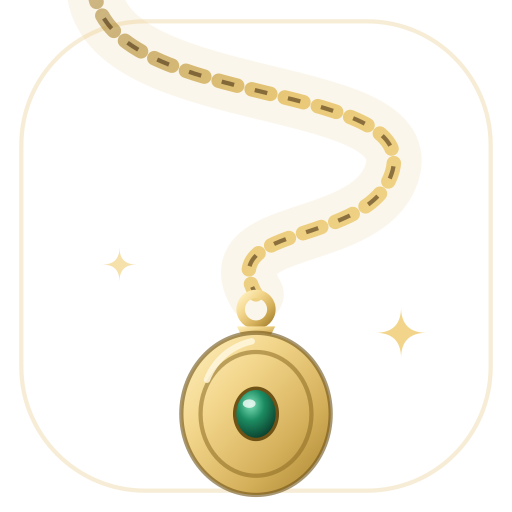
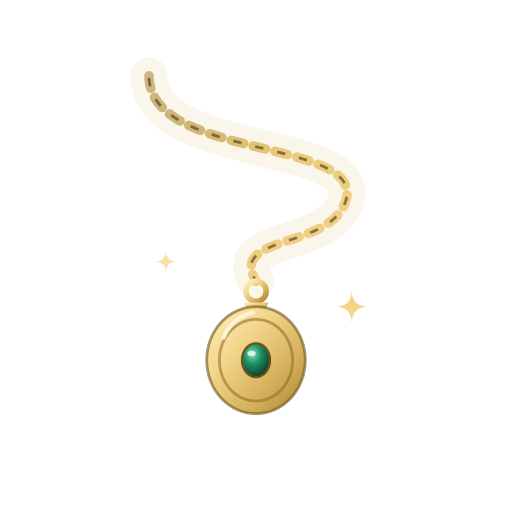
Jewel Box: the loose ends
Settings puts Sign out and Subscribe (or Manage) side by side, as B-32.
The Android adaptive icon's art shrinks into the 66% the circle keeps.
Shared cards and the embed set Gloock and Newsreader, not Fraunces/Figtree.
A Button's leading glyph matches the trailing one, so it sits level.
fresh-splash.sh clears the launch snapshot iOS keeps through a rebuild.
The dark-mode heart bug leaves TODO: walk-and-unlock passes in dark on a
fresh native build.

diff --git a/mobile/src/Settings.tsx b/mobile/src/Settings.tsx
@@ -16,7 +16,7 @@ import SignIn from './SignIn.tsx';
 import { locketOf } from './lockets.ts';
 import type { Permission } from './types.ts';
 import Button from './Button.tsx';
-import { button, buttonText, color, dim, font, label, screenTitle } from './theme.ts';
+import { color, dim, font, label, screenTitle } from './theme.ts';
 
 type Props = {
   visible: boolean;
@@ -63,28 +63,34 @@ export default function Settings({
           <CloseButton onPress={onClose} label="Close settings" />
         </View>
         <Section title="Account">
-          <SignIn device={device} profile={profile} onProfile={onProfile} />
-          {profile?.subscribed ? (
-            <>
-              <Text style={styles.note}>
-                {profile.subscribed_until
-                  ? `Subscribed until ${new Date(`${profile.subscribed_until}Z`).toLocaleDateString()}.`
-                  : 'Subscribed.'}{' '}
-                Plan as many walks a day as you like.
-              </Text>
-              <Pressable
-                style={dim(styles.action)}
-                onPress={() => manage().catch(() => {})}
-                accessibilityRole="button"
-              >
-                <Text style={styles.actionText}>Manage subscription</Text>
-              </Pressable>
-            </>
-          ) : (
-            profile?.user_id && (
-              <Button kind="foil" label="Subscribe" onPress={onSubscribe} place={styles.action} />
-            )
+          {profile?.subscribed && (
+            <Text style={styles.note}>
+              {profile.subscribed_until
+                ? `Subscribed until ${new Date(`${profile.subscribed_until}Z`).toLocaleDateString()}.`
+                : 'Subscribed.'}{' '}
+              Plan as many walks a day as you like.
+            </Text>
           )}
+          <SignIn
+            device={device}
+            profile={profile}
+            onProfile={onProfile}
+            beside={
+              profile?.subscribed ? (
+                <Button
+                  kind="quiet"
+                  label="Manage"
+                  accessibilityLabel="Manage subscription"
+                  onPress={() => manage().catch(() => {})}
+                  place={styles.half}
+                />
+              ) : (
+                profile?.user_id && (
+                  <Button kind="foil" label="Subscribe" onPress={onSubscribe} place={styles.half} />
+                )
+              )
+            }
+          />
         </Section>
 
         <Section title="How unlocking works">
@@ -209,9 +215,8 @@ const styles = StyleSheet.create({
   row: { flexDirection: 'row', alignItems: 'flex-start', gap: 12 },
   rowText: { flex: 1, ...font.prose, fontSize: 17, lineHeight: 27, color: color.ink },
   note: { ...font.prose, fontSize: 15, lineHeight: 24, color: color.inkFaint },
-  action: { ...button.quiet, alignSelf: 'flex-start', marginTop: 6 },
+  half: { flex: 1 },
   textAction: { alignSelf: 'flex-start' },
-  actionText: { ...buttonText, color: color.ink },
   link: { alignSelf: 'flex-start' },
   linkText: {
     ...font.uiMedium,

diff --git a/mobile/src/SignIn.tsx b/mobile/src/SignIn.tsx
@@ -19,7 +19,7 @@
  * that a release build cannot take: see `Skip` below.
  */
 
-import { useEffect, useMemo, useState } from 'react';
+import { useEffect, useMemo, useState, type ReactNode } from 'react';
 import {
   ActivityIndicator,
   Platform,
@@ -37,6 +37,7 @@ import * as WebBrowser from 'expo-web-browser';
 import { useSafeAreaInsets } from 'react-native-safe-area-context';
 
 import { deleteAccount, fetchProfile, signIn, signOut, type Profile } from './api.ts';
+import Button from './Button.tsx';
 import { LogoTile } from './StartupLogo.tsx';
 import { button, buttonText, color, dim, font, label, screenTitle } from './theme.ts';
 
@@ -290,12 +291,14 @@ type Props = {
   device: string | null;
   profile: Profile | null;
   onProfile: (next: Profile) => void;
+  /** Shares Sign out's row: Settings puts Subscribe there. */
+  beside?: ReactNode;
 };
 
 /** The journal's Account section. Only ever seen signed in (or skipped past in
  *  a dev build): which sign-ins are attached, the other one, and sign out -
  *  which lands back on SignInScreen. */
-export default function SignIn({ device, profile, onProfile }: Props) {
+export default function SignIn({ device, profile, onProfile, beside }: Props) {
   const [busy, setBusy] = useState(false);
   const [error, setError] = useState<string | null>(null);
   const appleAvailable = useAppleAvailable();
@@ -347,9 +350,10 @@ export default function SignIn({ device, profile, onProfile }: Props) {
         !providers.includes('apple') && (
           <LinkApple device={device} onProfile={onProfile} onError={setError} onBusy={setBusy} />
         )}
-      <Pressable style={dim(styles.action)} onPress={leave} accessibilityRole="button">
-        <Text style={styles.actionText}>Sign out</Text>
-      </Pressable>
+      <View style={styles.row}>
+        <Button kind="quiet" label="Sign out" onPress={leave} place={styles.half} />
+        {beside}
+      </View>
       {confirmingDelete && (
         <Text style={styles.note}>
           Your memories, photos, notes and sign-ins are deleted for good. A subscription is
@@ -385,6 +389,8 @@ const styles = StyleSheet.create({
     maxWidth: 280,
   },
   actions: { gap: 12, alignItems: 'stretch' },
+  row: { flexDirection: 'row', gap: 12 },
+  half: { flex: 1 },
   google: { ...button.quiet, height: 52, paddingVertical: 0 },
   googleText: { ...buttonText, color: color.ink },
   skip: { alignSelf: 'center', paddingVertical: 10, paddingHorizontal: 16 },
@@ -393,8 +399,6 @@ const styles = StyleSheet.create({
   note: { ...font.prose, fontSize: 15, lineHeight: 24, color: color.inkFaint },
   // Apple's button draws itself; it only takes a frame.
   apple: { height: 52, alignSelf: 'stretch' },
-  action: { ...button.quiet, alignSelf: 'flex-start' },
-  actionText: { ...buttonText, color: color.ink },
   delete: { alignSelf: 'flex-start', paddingVertical: 4 },
   deleteText: { ...buttonText, color: color.danger },
   error: { ...font.ui, fontSize: 13, color: color.gold, textAlign: 'center' },

diff --git a/mobile/src/Button.tsx b/mobile/src/Button.tsx
@@ -69,7 +69,7 @@ export default function Button({
         <ActivityIndicator color={tint} />
       ) : (
         <>
-          {glyph && <Glyph name={glyph} size={17} weight="semibold" color={tint} />}
+          {glyph && <Glyph name={glyph} size={15} weight="bold" color={tint} />}
           {label !== '' && (
             <Text style={[styles.label, { color: tint }]} numberOfLines={1}>
               {label}

diff --git a/api/card.py b/api/card.py
@@ -127,8 +127,7 @@ def source_href(row) -> str | None:
 # WebView and a link preview with no asset pipeline behind it.
 FONT_HREF = (
     "https://fonts.googleapis.com/css2?"
-    "family=Figtree:wght@400;500;600"
-    "&family=Fraunces:opsz,wght,SOFT,WONK@9..144,400,100,0;9..144,700,100,1&display=swap"
+    "family=Gloock&family=Newsreader:opsz,wght@6..72,400&display=swap"
 )
 
 # The palette is mobile/src/theme.ts, copied by hand because there are eleven
@@ -140,12 +139,14 @@ CARD_CSS = """
   :root{--bg:#14101a;--fg:#f3ece0;--muted:#9b90a3;--rule:#362c3f;--accent:#e3be6b}
 }
 *{box-sizing:border-box}
-/* Soft Fraunces and Figtree, with stacks that hold on their own: a link
+/* The app's type (docs/10, "Jewel Box"): Gloock for the title, Newsreader
+   for the story, the system's rounded face for the small print. Stacks that
+   hold on their own: a link
    preview bot fetches no fonts, and a card that collapses to Times is worse
    than one that was never restyled. `muted` is `faded`, not `inkFaint` - this
    sets 12px in it and inkFaint is 3.4:1 on paper. */
 body{margin:0;background:var(--bg);color:var(--fg);
-  font:400 16px/1.5 Fraunces,Georgia,"Times New Roman",serif;
+  font:400 16px/1.5 Newsreader,Georgia,"Times New Roman",serif;
   -webkit-font-smoothing:antialiased}
 /* The card hugs its content and never stretches: this same markup is an iframe
    in the embed widget, where a card stretched to 100vh is a credit stranded at
@@ -161,8 +162,9 @@ body{min-height:100svh;display:flex;flex-direction:column;
 .card{max-width:34rem;width:100%;margin-inline:auto;padding:28px 24px;display:flex;
   flex-direction:column;gap:14px}
 /* clamp() so the place name survives being scaled down to a thumbnail */
-.place{font-size:clamp(22px,5.5vw,30px);font-weight:700;line-height:1.2;margin:0}
-.when{font-family:Figtree,system-ui,-apple-system,"Segoe UI",sans-serif;
+.place{font-family:Gloock,Georgia,"Times New Roman",serif;
+  font-size:clamp(22px,5.5vw,30px);font-weight:400;line-height:1.2;margin:0}
+.when{font-family:ui-rounded,system-ui,-apple-system,"Segoe UI",sans-serif;
   font-size:12px;color:var(--muted);margin:0}
 /* 19/31, the same size the app's sheet gives it, because it is the same
    sentence and it is the reason anybody opened this. */
@@ -174,7 +176,7 @@ body{min-height:100svh;display:flex;flex-direction:column;
 /* Under the place name, as a byline: the first thing seen with the story,
    which is where the AI Act wants the label (docs/09 part 10). */
 .credit{margin:0;
-  font-family:Figtree,system-ui,-apple-system,"Segoe UI",sans-serif;
+  font-family:ui-rounded,system-ui,-apple-system,"Segoe UI",sans-serif;
   font-size:12px;line-height:19px;color:var(--muted);display:flex;
   flex-wrap:wrap;gap:6px}
 .credit a{color:var(--accent)}
@@ -182,7 +184,7 @@ body{min-height:100svh;display:flex;flex-direction:column;
    fixed height so a portrait phone shot is not cropped to a letterbox. */
 .photo{width:100%;border-radius:14px;display:block;max-height:60vh;object-fit:cover}
 .layer{display:inline-block;
-  font-family:Figtree,system-ui,-apple-system,"Segoe UI",sans-serif;
+  font-family:ui-rounded,system-ui,-apple-system,"Segoe UI",sans-serif;
   font-size:13px;font-weight:600;color:var(--muted)}
 @media (max-width:360px){.card{padding:18px 16px}.summary{font-size:17px;line-height:28px}}
 """

diff --git a/api/embed.py b/api/embed.py
@@ -49,7 +49,7 @@ EMBED_HTML = """<!doctype html>
 <title>Memory Lane</title>
 <link rel="stylesheet" href="https://cdnjs.cloudflare.com/ajax/libs/leaflet/1.9.4/leaflet.min.css">
 <script src="https://cdnjs.cloudflare.com/ajax/libs/leaflet/1.9.4/leaflet.min.js"></script>
-<link rel="stylesheet" href="https://fonts.googleapis.com/css2?family=Figtree:wght@400;500&family=Fraunces:opsz,wght,SOFT,WONK@9..144,400,100,0&display=swap">
+<link rel="stylesheet" href="https://fonts.googleapis.com/css2?family=Newsreader:opsz,wght@6..72,400&display=swap">
 <style>
   :root {{ color-scheme: light dark; }}
   /* Typography only. `Canvas` and `color-scheme` stay: this widget lives in
@@ -57,7 +57,7 @@ EMBED_HTML = """<!doctype html>
      the card inside the panel carries the full palette. */
   html, body {{
     margin: 0; height: 100%;
-    font-family: Figtree, system-ui, -apple-system, "Segoe UI", sans-serif;
+    font-family: ui-rounded, system-ui, -apple-system, "Segoe UI", sans-serif;
   }}
   #map {{ position: absolute; inset: 0; }}
   /* z-index 600 is deliberate and is the attribution rule, not a stacking
@@ -90,7 +90,7 @@ EMBED_HTML = """<!doctype html>
   #empty[data-show] {{ display: grid; }}
   #empty p {{
     background: Canvas; padding: .6rem 1rem; border-radius: 999px; margin: 0;
-    font-family: Fraunces, Georgia, "Times New Roman", serif; font-size: 1rem;
+    font-family: Newsreader, Georgia, "Times New Roman", serif; font-size: 1rem;
   }}
 </style>
 </head><body>

diff --git a/TODO.md b/TODO.md
@@ -24,13 +24,6 @@ What slowed a session down or nearly shipped something wrong, and would again.
 The rules for adding to it are in AGENTS.md, "Then log the friction". Newest first;
 delete an entry when its fix lands.
 
-- **A new native splash shows the old one until its snapshot is deleted.**
-  2026-10-07: after the Jewel Box icon, prebuild and xcodebuild put the new
-  splash in the bundle, but the simulator kept launching on the ember tile
-  through a reinstall and a reboot; it took an `assetutil` check of the bundle
-  to find the cache. Also `npx expo run:ios` dies on signing with a paired
-  iPhone, as `e2e/run.sh` notes. Fix: a `mobile/scripts/fresh-splash.sh` that
-  deletes the app container's `Library/SplashBoard` (in `UI.md`'s recipe).
 - **A reply cut at `max_tokens=2000` is paid for and thrown away.**
   2026-10-07: the Københavnerglimt batch logged it on several calls, then a
   last pass of three cut calls stored nothing and stopped the run, leaving
@@ -448,13 +441,6 @@ rule for anything game-like or crafted: quiet by default, loud only for real
 progress; refine what exists rather than add.
 
 ### The walk on the map
-
-- [ ] **The heart does not press after a dark-mode unlock** (2026-10-07).
-      `./e2e/run.sh walk` fails at F26 with the simulator in dark: a tap on
-      Heart reaches nothing, and the hierarchy shows an empty full-sheet layer
-      at the card's frame over it. Suspect `IrisGrow`'s dark path
-      (LocketUnlock.tsx, Jewel Box). A tap after relaunch works. Light mode
-      untested since the change.
 
 - [ ] **A walk's stops told apart.** (checked 2026-10-04) The accent question
       is settled (gold, emerald `seal`, `faded`; docs/10, *Lockets*). Left: a

diff --git a/docs/repository-map.md b/docs/repository-map.md
@@ -184,6 +184,7 @@ The endpoint list is [06-api.md](06-api.md).
 | `mobile/src/cluster.ts` | Group memories that share a map point (unit tested) |
 | `mobile/src/region.ts` | Metres, paths and framing a walk (unit tested) |
 | `mobile/src/useMapCamera.ts` | Owns the map ref and every camera move |
+| `mobile/scripts/fresh-splash.sh` | Dev: clear the simulator's saved launch screen, so a new native splash shows |
 | `mobile/scripts/reset-unlocks.sh` | Dev: lock everything again for the simulator's user, in the dev DB and on the device |
 | `mobile/src/useBreath.ts` | The next stop's pin hop. Transform only, so the tap target never moves |
 | `mobile/src/geofence.ts`, `geofenceRegions.ts`, `notifyNearby.ts` | The opt-in proximity notification: the native wrapper, the pure region maths, the opt-in flag |

diff --git a/mobile/UI.md b/mobile/UI.md
@@ -768,6 +768,10 @@ physical-device branch anyway. `./e2e/run.sh` builds with `xcodebuild` for that
 reason (its step 3/5, which also rebuilds whenever `Podfile.lock` changed), and
 running it is the shortest way to a fresh simulator build.
 
+**A new native splash still opens on the old one** until
+`mobile/scripts/fresh-splash.sh` deletes the launch-screen snapshot iOS keeps
+in the app's container; a rebuild, a reinstall and a reboot all leave it.
+
 It bakes the LAN IP into the launch URL and exits with Metro, so start Metro
 yourself afterwards with `REACT_NATIVE_PACKAGER_HOSTNAME=localhost` and
 `xcrun simctl launch` — the dev client remembers the last URL it loaded, if
